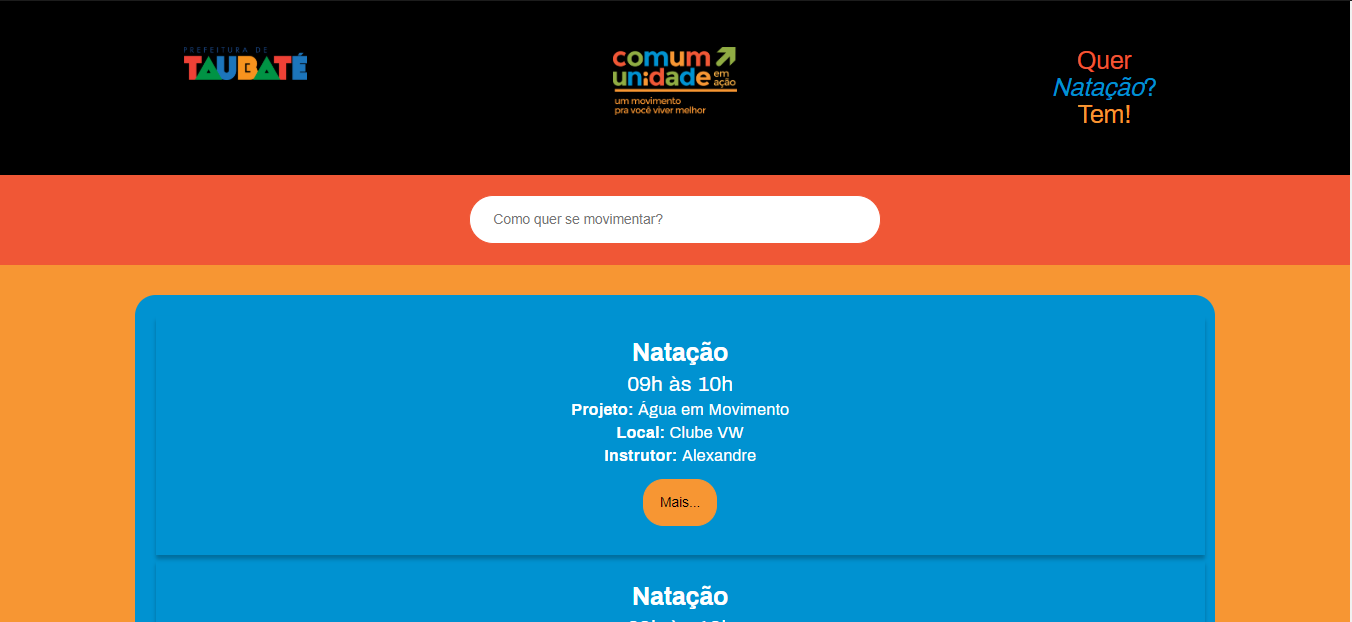
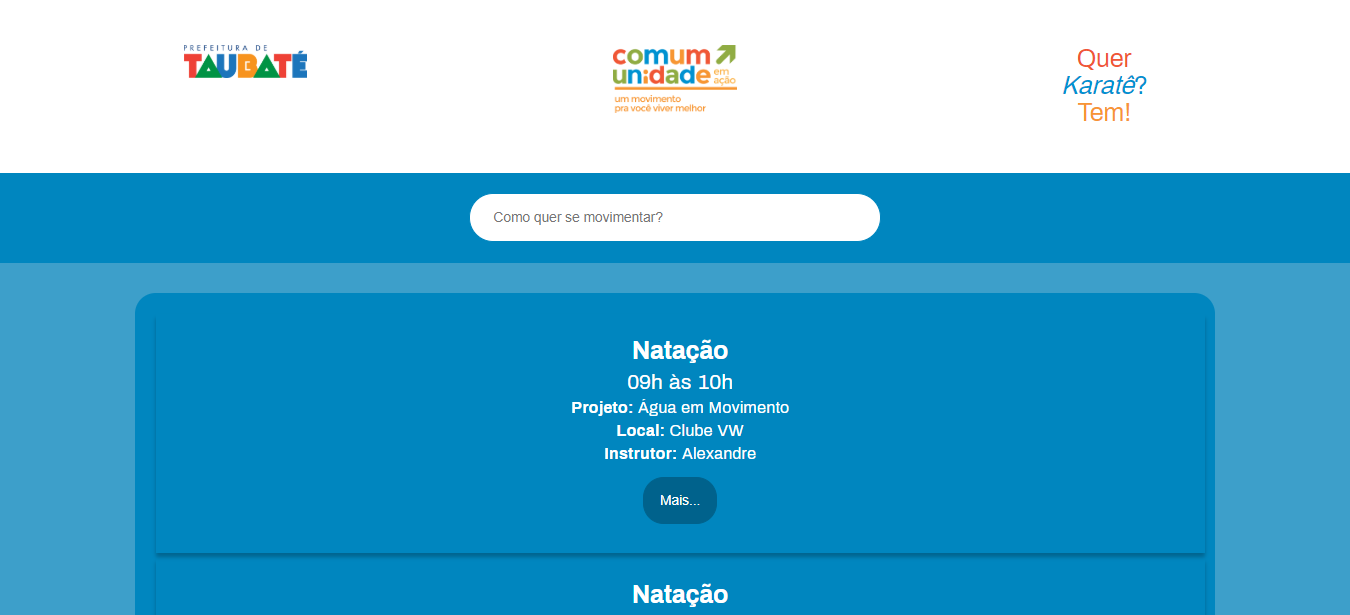
Melhorias nas cores

diff --git a/src/components/Result/SportClass/style.css b/src/components/Result/SportClass/style.css
@@ -18,12 +18,13 @@
 .details-button {
     margin: 10px;
     padding: 15px;
-    background: #F79633;
-    border: 1px solid #F79633;
+    color: white;
+    background: #00628C;
+    border: 1px solid #00628C;
     border-radius: 20px;
 }
 
 .details-button:hover {
-    background: #F05736;
-    border: 1px solid #F05736;
+    background: #3D9FCA;
+    border: 1px solid #3D9FCA;
 }

diff --git a/src/components/Result/style.css b/src/components/Result/style.css
@@ -3,14 +3,14 @@
     padding: 30px;
     padding-left: 10%;
     padding-right: 10%;
-    background: #F79633;
+    background: #3D9FCA;
 }
 
 .results-box {
     position: relative;
     width: 100%;
     padding: 15px;
-    background: #0092D1;
+    background: #0086BF;
     border-radius: 20px;
 }
 

diff --git a/src/components/Search/style.css b/src/components/Search/style.css
@@ -2,7 +2,7 @@
     position: relative;
     width: 100%;
     padding: 5px;
-    background: #F05736;
+    background: #0086BF;
 }
 
 .search-input {
@@ -12,5 +12,5 @@
     margin: auto;
     padding: 1.7em;
     border-radius: 2em;
-    border: 1px solid #F05736;
+    border: 1px solid #0086BF;
 }

diff --git a/src/index.css b/src/index.css
@@ -1,6 +1,6 @@
 body {
   margin: 0;
-  background: #F79633;
+  background: #FFFFFF;
   font-family: -apple-system, BlinkMacSystemFont, 'Segoe UI', 'Roboto', 'Oxygen',
     'Ubuntu', 'Cantarell', 'Fira Sans', 'Droid Sans', 'Helvetica Neue',
     sans-serif;

diff --git a/src/components/Header/style.css b/src/components/Header/style.css
@@ -1,7 +1,7 @@
 .header-container {
     width: 100%;
     padding: 30px;
-    background: black;
+    background: white;
 }
 
 .sports-name {

diff --git a/src/components/Footer/style.css b/src/components/Footer/style.css
@@ -3,7 +3,7 @@
     width: 100%;
     bottom: 0em;
     padding: 15px;
-    background: black;
+    background: #00628C;
 }
 
 .footer-text {
